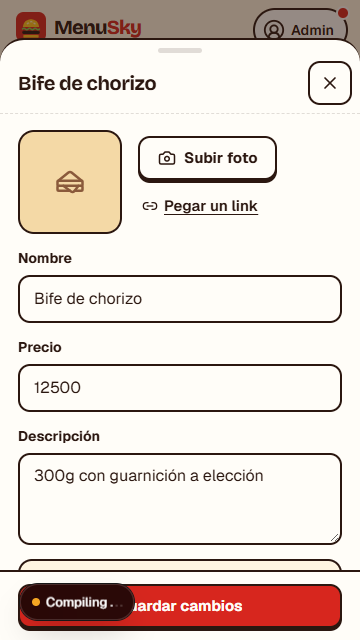
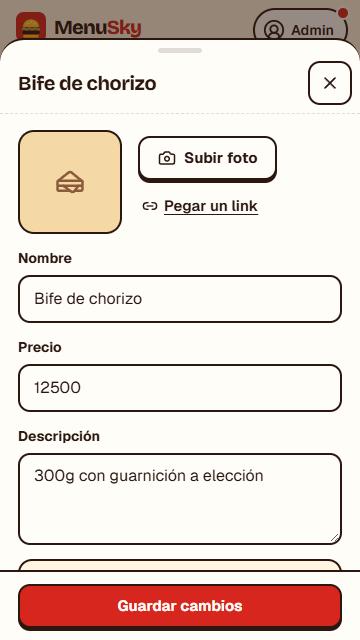
Close Carta 4a: production-build evidence, captures and README
Against a production build (next start 3420) and an own mock (3422 behind
the fault proxy on 3421): carta-e2e 126 OK / 0 FAIL, quality 22 OK / 0 FAIL
with axe 0 violations in 10 scans (out-of-stock contrast fix from d92f920
verified), captures retaken without the next dev badge.
npx eslint: 19 problems (3 errors, 16 warnings), all pre-existing and
outside the admin; npx tsc --noEmit: exit 0.

Changed region(s): [[0.0611, 0.9062, 0.3972, 0.9688]]

diff --git a/docs/design/admin/evidencia/carta-4a/README.md b/docs/design/admin/evidencia/carta-4a/README.md
@@ -1,0 +1,49 @@
+# Evidencia de la parte 4a (Shell + Carta + hoja)
+
+Scripts de prueba del Frontend. No son parte de la app y la app no suma dependencias.
+
+## Requisitos
+- Node >= 20 y Google Chrome instalado (los scripts usan `channel: "chrome"`).
+- Playwright en una carpeta aparte (`TOOLS_DIR`), fuera del repo:
+  ```
+  mkdir tools && cd tools && npm init -y && npm i playwright @axe-core/playwright
+  ```
+  (verificado con playwright 1.63.0 y @axe-core/playwright 4.13.0).
+
+## Levantar (puertos del Frontend, D-1: 3420-3449)
+Desde la raíz del repo, en tres terminales:
+```
+node scripts/mock-supabase/server.mjs --port 3422                       # Supabase simulado
+node docs/design/admin/evidencia/carta-4a/fault-proxy.mjs 3421 3422     # proxy: inyecta fallas a pedido
+```
+La app habla con el proxy (3421); sin fallas pedidas, el proxy es transparente.
+```
+export NEXT_PUBLIC_SUPABASE_URL=http://127.0.0.1:3421
+export NEXT_PUBLIC_SUPABASE_ANON_KEY=mock-anon-key
+export NEXT_PUBLIC_SITE_URL=http://localhost:3420
+npx next build                                   # las NEXT_PUBLIC se fijan al compilar
+npx next start -H 127.0.0.1 -p 3420
+```
+No usar `npm run dev` si otro `next dev` corre sobre la misma carpeta (choca con su lock).
+
+## Correr
+```
+export TOOLS_DIR=<ruta a tools> APP_URL=http://127.0.0.1:3420 MOCK_URL=http://127.0.0.1:3421
+node docs/design/admin/evidencia/carta-4a/carta-e2e.mjs > docs/design/admin/evidencia/carta-4a/carta-e2e-salida.txt
+node docs/design/admin/evidencia/carta-4a/quality.mjs   > docs/design/admin/evidencia/carta-4a/quality-salida.txt
+node docs/design/admin/evidencia/carta-4a/captures.mjs  > docs/design/admin/evidencia/carta-4a/captures-salida.txt
+```
+Cada script reinicia el mock al empezar (`/__mock/reset`) y cambia datos: no apuntarlo a un mock que
+esté mirando otra persona. `captures.mjs` escribe en `docs/design/admin/capturas/`.
+
+## Qué hay
+| Archivo | Qué es |
+|---|---|
+| `carta-e2e.mjs` / `carta-e2e-salida.txt` | Punta a punta de shell, carta y hoja (acceso, CRUD, opciones, foco, celular). |
+| `quality.mjs` / `quality-salida.txt` | Scroll horizontal 320-1440, `prefers-reduced-motion`, foco visible, axe (WCAG 2.2 AA). |
+| `captures.mjs` / `captures-salida.txt` | Capturas 1440x900, 390x844 y 360x640 desde el build de producción. |
+| `eslint-salida.txt`, `tsc-salida.txt` | `npx eslint` del repo completo y `npx tsc --noEmit`. |
+| `fault-proxy.mjs`, `lib.mjs`, `shot-quick.mjs` | Proxy de fallas, utilidades comunes y captura rápida. |
+
+Qué cubre: Chrome de escritorio headless (con emulación táctil en 360x640) contra el mock. Qué no cubre:
+Safari/Firefox, dispositivos reales, un Supabase real, ni rendimiento (se mide en la PC de 16 GB, ver ESTADO-ADMIN).
